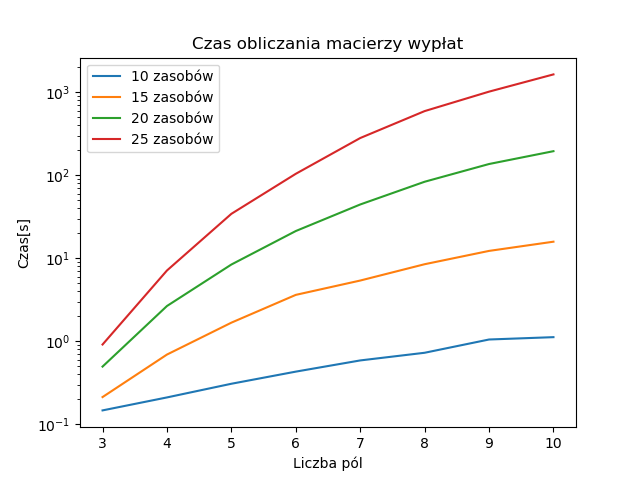
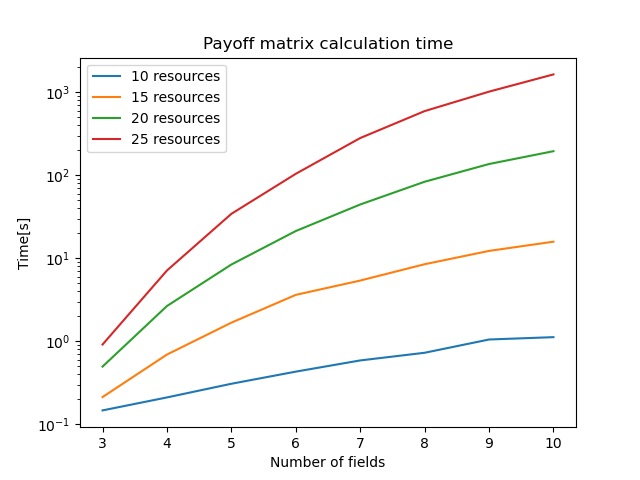
adding plots in english + plots generators in english

Changed region(s): [[0.2188, 0.0625, 0.7188, 0.3125], [0.4062, 0.9375, 0.5938, 1.0], [0.0312, 0.4375, 0.0625, 0.5625]]

diff --git a/src/payoff_matrix_finding/plots_mwu_gen.py b/src/payoff_matrix_finding/plots_mwu_gen.py
@@ -16,16 +16,16 @@ print(list(tmp.columns))
 def plot_1(phi_exponent):
     plt.clf()
     for i in range(10,22, 2):
-        tmp_label = str(i) + " zasobów"
+        tmp_label = str(i) + " resources"
         filename = "./res/symmetric/times/" + str(i) + "_" + str(i) + "_10.csv"
         tmp = pd.read_csv(filename, index_col=0)
         plt.scatter(list(tmp.columns.astype(int)), list(tmp.iloc[phi_exponent-1]), label=tmp_label)
-        plt.xlabel("Liczba kroków")
-        plt.ylabel("Czas[s]")
+        plt.xlabel("Number of steps")
+        plt.ylabel("Time[s]")
         plt.xscale('log')
         plt.yscale('log')
 
-    plt.title("Czasu działania algorytmu dla phi=" + '$(0.5)^' + str(phi_exponent) + '$')
+    plt.title("Algorithm runtime for phi=" + '$(0.5)^' + str(phi_exponent) + '$')
     plt.legend()
     plt.savefig("./plots_mwu/time_steps" + str(phi_exponent) + "=phi.png")
     plt.show()
@@ -53,7 +53,7 @@ def plot_epsilon_steps_number(phi_exponent, fields_num, res_num):
     # phi_exponent = 5
     plt.clf()
     for i in range(res_num,res_num+1, 2):
-        tmp_label = "strategia gracza kolumnowego"
+        tmp_label = "column player strategy"
         filename = "./res/symmetric/col_col/" + str(i) + "_" + str(i) + "_" + str(fields_num) + ".csv"
         tmp = pd.read_csv(filename, index_col=0)
         plt.plot(list(tmp.columns.astype(int)), list(tmp.iloc[phi_exponent-1]), label=tmp_label)
@@ -63,22 +63,22 @@ def plot_epsilon_steps_number(phi_exponent, fields_num, res_num):
         # tmp = pd.read_csv(filename, index_col=0)
         # plt.plot(list(tmp.columns.astype(int)), list(tmp.iloc[phi_exponent-1]), label=tmp_label)
 
-        tmp_label = "strategia gracza wierszowego"
+        tmp_label = "row player strategy"
         filename = "./res/symmetric/row_row/" + str(i) + "_" + str(i) + "_" + str(fields_num) + ".csv"
         tmp = pd.read_csv(filename, index_col=0)
         plt.plot(list(tmp.columns.astype(int)), list(tmp.iloc[phi_exponent-1]), label=tmp_label)
 
-        plt.xlabel("Liczba kroków")
+        plt.xlabel("Number of steps")
         plt.ylabel("epsilon")
         # plt.xscale('log')
         plt.yscale('log')
 
-    plt.title("Uzyskane dokładności dla A=B=" + str(res_num) + ", n=" + str(fields_num) + ", phi = $(0.5)^" + str(phi_exponent) + "$")
+    plt.title("The obtained accuracies for A=B=" + str(res_num) + ", n=" + str(fields_num) + ", phi = $(0.5)^" + str(phi_exponent) + "$")
     plt.legend()
     # plt.show()
     plt.savefig("./plots_mwu/epsilon_row_col_" + str(res_num) + "_" + str(res_num) + "_" + str(fields_num) + ".png")
-#
-plot_epsilon_steps_number(5, 7, 19)
+    plt.show()
+plot_epsilon_steps_number(5, 10, 20)
 
 #%%
 # phi_exponent = 5
@@ -95,24 +95,24 @@ def plot_epsilon_phi(steps_num, fields_num):
     plt.clf()
     for res_num in range(15,22,2):
         fields_num = 10
-        tmp_label = "liczba zasobów = " + str(res_num)
+        tmp_label = str(res_num) + " resources"
         filename = "./res/symmetric/col_col/" + str(res_num) + "_" + str(res_num) + "_" + str(fields_num) + ".csv"
         tmp = pd.read_csv(filename, index_col=0)
         plt.scatter(phis()[1:-3], list(tmp[str(steps_num)])[1:-3], label=tmp_label)
     plt.xlabel("phi")
     plt.ylabel("epsilon")
     plt.semilogx(base=2)
-    # plt.yscale('log')
+    plt.yscale('log')
 
-    plt.title("Uzyskane dokładności dla n=" + str(fields_num) + ", liczba kroków=" + str(steps_num))
+    plt.title("The obtained accuracies for  n=" + str(fields_num) + ", steps_number=" + str(steps_num))
     plt.legend()
-    plt.savefig("./plots_mwu/lin_epsilon_phi" + str(fields_num) + "_fields" + str(steps_num) + "_steps.png")
+    plt.savefig("./plots_mwu/epsilon_phi" + str(fields_num) + "_fields" + str(steps_num) + "_steps.png")
     plt.show()
 
 plot_epsilon_phi(int(32768/2), 10)
 print(phis().reverse())
 #%%
-phi_exponent = 5
+phi_exponent = 6
 fields_num = 10
 def plot_list(fields_num):
     tmp = []
@@ -126,14 +126,14 @@ def plot_list(fields_num):
 
 plt.clf()
 for i in range(4,11,2):
-    tmp_label = str(i) + " pól"
+    tmp_label = str(i) + " fields"
     plt.scatter(list(range(10,22)), plot_list(i), label=tmp_label)
-    plt.xlabel("Liczba zasobów")
-    plt.ylabel("Czas[s]")
+    plt.xlabel("Number of resources")
+    plt.ylabel("Time[s]")
     # plt.xscale('log')
     plt.yscale('log')
 
-plt.title("Czasu działania algorytmu dla n=10, \n phi=" + '$(0.5)^' + str(phi_exponent) + '$' + ", steps_number=32768")
+plt.title("Algorithm runtime for n=10, \n phi=" + '$(0.5)^' + str(phi_exponent) + '$' + ", steps_number=32768")
 plt.legend()
 plt.savefig("./plots_mwu/time_fixed_fields_res_arg_" + str(phi_exponent) + "=phi.png")
 plt.show()

diff --git a/src/payoff_matrix_finding/plots_generator.py b/src/payoff_matrix_finding/plots_generator.py
@@ -33,15 +33,16 @@ def div_times(times):
 
 plt.clf()
 for i in range(0, res_MAX - res_MIN +1, 5):
-    tmp_label=str(i+res_MIN) + " zasobów"
+    tmp_label=str(i+res_MIN) + " resources"
+    # print(prepare_fields(), list(tmp.iloc[i]))
     plt.plot(prepare_fields(), list(tmp.iloc[i]), label=tmp_label)
-    plt.xlabel("Liczba pól")
-    plt.ylabel("Czas[s]")
+    plt.xlabel("Number of fields")
+    plt.ylabel("Time[s]")
     plt.yscale('log')
     # plt.show()
-plt.title("Czas obliczania macierzy wypłat")
+plt.title("Payoff matrix calculation time")
 plt.legend()
-# plt.savefig("./plots/time(fields)_plt.png")
+plt.savefig("./plots/time(fields)_plt.png")
 plt.show()
 #%%
 tmp = pd.read_csv("./data/times/time_iter.csv", index_col=0)
@@ -62,13 +63,13 @@ plt.clf()
 print(tmp.columns)
 for i in range(3, fields_MAX-fields_MIN+1):
     # print(i)
-    tmp_label=str(i+fields_MIN) + " pól"
+    tmp_label=str(i+fields_MIN) + " fields"
     plt.plot(prepare_reses(), list(tmp[tmp.columns[i]]), label=tmp_label)
-    plt.xlabel("Liczba zasobów")
-    plt.ylabel("Czas[s]")
+    plt.xlabel("Number of fields")
+    plt.ylabel("Time[s]")
     plt.yscale('log')
     # plt.show()
-plt.title("Czas obliczania macierzy wypłat")
+plt.title("Payoff matrix calculation time")
 plt.legend()
 plt.savefig("./plots/time(res)_plt.png")
 plt.show()
@@ -76,14 +77,12 @@ plt.show()
 tmp = pd.read_csv("./data/times/cell_time_iter.csv", index_col=0)
 plt.clf()
 for i in range(5, res_MAX - res_MIN +1, 5):
-    tmp_label=str(i+res_MIN) + " zasobów"
+    tmp_label=str(i+res_MIN) + " resources"
     plt.plot(prepare_fields()[:], list(tmp.iloc[i]/1000)[:], label=tmp_label)
-    plt.xlabel("Liczba pól")
-    plt.ylabel("Czas[ms]")
+    plt.xlabel("Number of fields")
+    plt.ylabel("Time[ms]")
     plt.xticks(list(range(3,11)))
-    # plt.yscale('log')
-    # plt.show()
-plt.title("Średni czas obliczania pojedynczej wypłaty")
+plt.title("Average time for calculating a single payoff")
 plt.legend()
 plt.savefig("./plots/single_time(fields)_plt.png")
 plt.show()
@@ -107,16 +106,16 @@ tmp = pd.read_csv("./data/times/cell_time_iter.csv", index_col=0)
 plt.clf()
 for i in range(3, fields_MAX-fields_MIN+1):
     # print(i)
-    tmp_label=str(i+fields_MIN) + " pól"
+    tmp_label=str(i+fields_MIN) + " fields"
     plt.plot(prepare_reses(), list(tmp[tmp.columns[i]]/1000), label=tmp_label)
-    plt.xlabel("Liczba zasobów")
-    plt.ylabel("Czas[ms]")
+    plt.xlabel("Number of fields")
+    plt.ylabel("Time[ms]")
     plt.xticks(list(range(10,26,2)))
     # plt.yscale('log')
     # plt.show()
-plt.title("Średni czas obliczania pojedynczej wypłaty")
+plt.title("Average time for calculating a single payoff")
 plt.legend()
-# plt.savefig("./plots/single_time(res)_plt.png")
+plt.savefig("./plots/single_time(res)_plt.png")
 plt.show()
 #%%
 tmp = pd.read_csv("./data/times/time.csv", index_col=0)
@@ -125,32 +124,34 @@ ranges = [21,13]
 ends = [18,10]
 plt.clf()
 for i in range(2):
-    tmp_label=str(i+1) + "-krotność zasobów"
+    if(i == 0):
+        tmp_label="resources number equals number of fields"
+    else:
+        tmp_label="resources number is 2 times number of fields"
     plt.plot(list(range(3,ranges[i])), list(tmp.iloc[i])[0:ends[i]], label=tmp_label)
-    plt.xlabel("Liczba pól")
-    plt.ylabel("Czas[s]")
+    plt.xlabel("Number of fields")
+    plt.ylabel("Time[ms]")
     plt.yscale('log')
     plt.xticks(list(range(3,21)))
     # plt.show()
-plt.title("Czas obliczania macierzy wypłat")
+plt.title("Payoff matrix calculation time")
 plt.legend()
-# plt.savefig("./plots/time_mul(fields).png")
+plt.savefig("./plots/time_mul(fields).png")
 plt.show()
 #%%
 tmp = pd.read_csv("./data/times/cell_time.csv", index_col=0)
 # print(tmp)
 plt.clf()
 for i in range(2):
-    tmp_label=str(i+1) + "-krotność zasobów"
+    if(i == 0):
+        tmp_label="resources number equals number of fields"
+    else:
+        tmp_label="resources number is 2 times number of fields"
     plt.plot(list(range(3,ranges[i])), list(tmp.iloc[i]/1000)[0:ends[i]], label=tmp_label)
-    plt.xlabel("Liczba pól")
-    plt.ylabel("Czas[ms]")
-    # plt.yscale('log')
+    plt.xlabel("Number of fields")
+    plt.ylabel("Time[ms]")
     plt.xticks(list(range(3,21)))
-    # plt.yticks(list(range(0,10,1)))
-    # plt.yscale('log')
-    # plt.show()
-plt.title("Średni czas obliczania pojedynczej wypłaty")
+plt.title("Average time for calculating a single payoff")
 plt.legend()
 plt.savefig("./plots/single_time_mul(fields)_plt.png")
 plt.show()

diff --git a/src/payoff_matrix_finding/threads_plots.py b/src/payoff_matrix_finding/threads_plots.py
@@ -22,14 +22,14 @@ tmp = pd.read_csv(filename, index_col=0)
 for fields in range(fields_MIN,fields_MAX, 2):
     t_0 = list(tmp[str(fields)])[0]
     tmp_list = [t_0/x for x in tmp[str(fields)]]
-    tmp_label = str(fields) + " pól"
+    tmp_label = str(fields) + " fields"
     plt.plot(list(tmp.index.astype(int)), tmp_list, label=tmp_label)
-    plt.xlabel("Liczba wątków")
-    plt.ylabel("Przyspieszenie")
+    plt.xlabel("Number of threads")
+    plt.ylabel("Speedup")
     # plt.xscale('log', base=2)
     # plt.yscale('log',  base=2)
 
-plt.title("Przyspieszenie algorytmu dla wielu wątków, \n wyniki dla symetrycznych konfliktów, liczba zasobów to 10.")
+plt.title("Speedup of the algorithm for multiple threads, \n results for symmetric conflicts, the number of resources is 10.")
 plt.legend()
 plt.savefig("./plots/threads_speed_up_fixed_res.png")
 plt.show()
@@ -42,14 +42,14 @@ tmp = pd.read_csv(filename, index_col=0)
 for res in range(res_MIN,res_MAX, 2):
     t_0 = list(tmp[str(res)])[0]
     tmp_list = [t_0/x for x in tmp[str(res)]]
-    tmp_label = str(res) + " zasobów"
+    tmp_label = str(res) + " resources"
     plt.plot(list(tmp.index.astype(int)), tmp_list, label=tmp_label)
-    plt.xlabel("Liczba wątków")
-    plt.ylabel("Przyspieszenie")
+    plt.xlabel("Number of threads")
+    plt.ylabel("Speedup")
     # plt.xscale('log', base=2)
     # plt.yscale('log',  base=2)
 
-plt.title("Przyspieszenie algorytmu dla wielu wątków, \n wyniki dla symetrycznych konfliktów, liczba pól to 10.")
+plt.title("Speedup of the algorithm for multiple threads, \n results for symmetric conflicts, the number of fields is 10.")
 plt.legend()
 plt.savefig("./plots/threads_speed_up_fixed_fields.png")
 plt.show()
